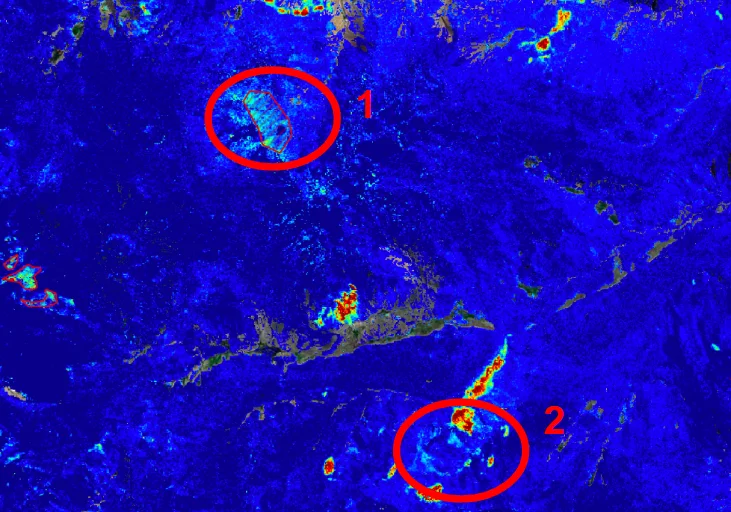
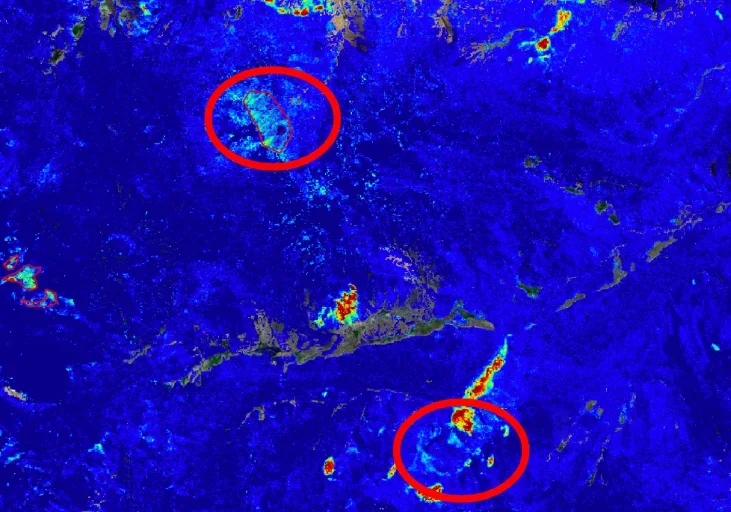
Drop thesis/implementation part markers; refresh Mendoza imagery
Remove the Part I/II marker asides on the home page, swap in the new
Spectral-evaluation and Cornejo/Gebel photos, hold the Cornejo/Gebel
frame in portrait on mobile so head and torso stay in view, and fix
"union provinces" copy on the projects page.

diff --git a/src/styles/global.css b/src/styles/global.css
@@ -4984,6 +4984,12 @@ textarea.form-input {
     aspect-ratio: 16 / 10;
   }
 
+  .split-visual--compact .split-image {
+    aspect-ratio: 4 / 5;
+    max-width: 360px;
+    margin-inline: auto;
+  }
+
   .split-lead {
     max-width: none;
   }